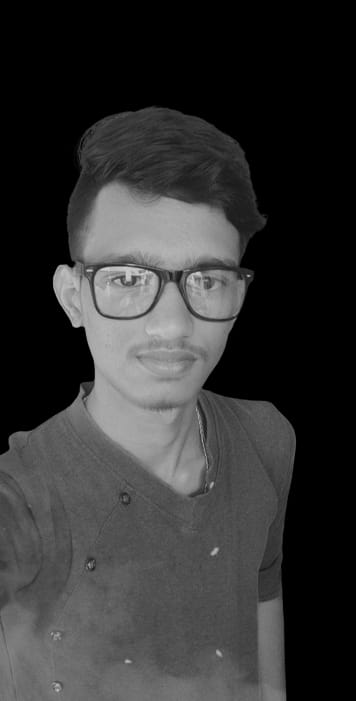
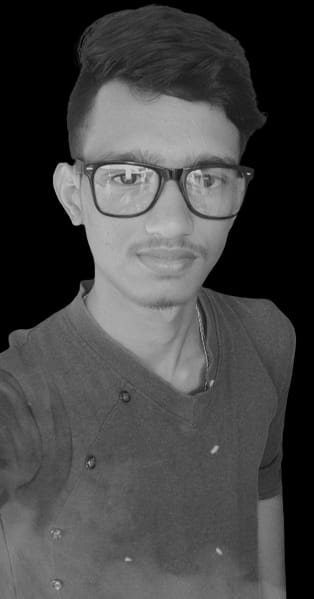
new changes

diff --git a/index.html b/index.html
@@ -2,8 +2,9 @@
     <head>
         <title>RAM</title>
         <link rel="stylesheet" href="all.min.css">
-        <link rel="icon" type="" href="">
+        <link rel="icon" type="image/icon" href="b&w.jpg">
         <script src="https://kit.fontawesome.com/9cfb58acdb.js" crossorigin="anonymous"></script>
+        <link rel="stylesheet" href="https://cdnjs.cloudflare.com/ajax/libs/font-awesome/4.7.0/css/font-awesome.min.css">
         <meta name="viewport" content="width=device-width,initial-scale=1.0">
         <link rel="stylesheet" href="footer.css">
         <link rel="stylesheet" href="project.css">
@@ -11,13 +12,12 @@
         <link rel="stylesheet" href="skill.css">
         <meta name="viewport" content="width=device-width,initial-scale=1.0">
         <style>
-
-          
           .wrapper{
             display: flex;
             padding-top: 30%;
           }
           .wrapper .static-txt{
+            
             color: #f1f1f1;
             font-size: 60px;
             font-weight: 400;
@@ -77,18 +77,16 @@
           }
           .background h1{
             color: #f1f1f1;
-            padding-top: 5%;
             font-size: 70px;
           }
-          .background .img{
+          .background img{
             opacity: 0.2;
           }
-          .background .img:hover{
+          .background img:hover{
             opacity: 0.5;
             transform: scale(1.1);
           }
         </style>
-
     </head>
     <body>
       <div id="loder">
@@ -103,9 +101,8 @@
       
 
     <div class="background" id="particles-js">
-    
       <div id="name"><h1>!RAM</h1></div>
-      <div style="float: right;" class="img"><img src="b&w.jpg"></div>
+      <div style="float: right;"><img src="b&w.jpg"> </div>
       <div class="wrapper">
         
         <div class="static-txt">I'm a</div>
@@ -128,8 +125,8 @@
             <div class="card">
               <div class="face face1">
                 <div class="con">
-                  <img src="">
-                  <h2>TODO APP</h2>
+                  
+                  <h2><i class="far fa-edit"></i>TODO APP</h2>
                 </div>
 
               </div>
@@ -146,8 +143,8 @@
             <div class="card">
               <div class="face face1">
                 <div class="con">
-                  <img src="">
-                  <h2>virtual mouse</h2>
+                  
+                  <h2><i class="far fa-hand-pointer"></i>virtual mouse</h2>
                 </div>
 
               </div>
@@ -157,7 +154,7 @@
                     to sensor noise, changing light levels, and the complexity of tracking a fingertip across a variety of subjects. 
                     Using fingertip tracking as a virtual mouse is a popular method of 
                     interacting with computers without a mouse device.</p>
-                     <a href="#" target="_blank">view project</a>
+                     <a href="https://github.com/Muthuram05/virtual_mouse" target="_blank">view project</a>
                 </div>
 
               </div>
@@ -165,8 +162,8 @@
             <div class="card">
               <div class="face face1">
                 <div class="con">
-                  <img src="">
-                  <h2>Face detect</h2>
+                  
+                  <h2><i class="far fa-surprise"></i>Face detect</h2>
                 </div>
 
               </div>
@@ -185,8 +182,7 @@
             <div class="card">
               <div class="face face1">
                 <div class="con">
-                  <img src="">
-                  <h2>Hand detect</h2>
+                  <h2><i class="fa fa-hand-paper-o"></i>Hand detect</h2>
                 </div>
 
               </div>
@@ -197,7 +193,7 @@
                     with virtual data, by handling through the fingers the volumetric of a 3D object that we want to represent.
                      This system was born based on the human-computer interaction problem. 
                 </p>
-                     <a href="#" target="_blank">view project</a>
+                     <a href="https://github.com/Muthuram05/hand_detect" target="_blank">view project</a>
                 </div>
 
               </div>
@@ -242,20 +238,6 @@
 
     </diV>
     </div>
-    <iframe width="560" height="315" src="https://www.youtube.com/embed/nKq2pEYEArs" title="YouTube video player" frameborder="0" allow="accelerometer; autoplay; clipboard-write; encrypted-media; gyroscope; picture-in-picture" allowfullscreen></iframe>
-    <iframe width="560" height="315" src="https://www.youtube.com/embed/nKq2pEYEArs" title="YouTube video player" frameborder="0" allow="accelerometer; autoplay; clipboard-write; encrypted-media; gyroscope; picture-in-picture" allowfullscreen></iframe>
-    <iframe width="560" height="315" src="https://www.youtube.com/embed/nKq2pEYEArs" title="YouTube video player" frameborder="0" allow="accelerometer; autoplay; clipboard-write; encrypted-media; gyroscope; picture-in-picture" allowfullscreen></iframe>
-    <iframe width="560" height="315" src="https://www.youtube.com/embed/nKq2pEYEArs" title="YouTube video player" frameborder="0" allow="accelerometer; autoplay; clipboard-write; encrypted-media; gyroscope; picture-in-picture" allowfullscreen></iframe>
-    <iframe width="560" height="315" src="https://www.youtube.com/embed/nKq2pEYEArs" title="YouTube video player" frameborder="0" allow="accelerometer; autoplay; clipboard-write; encrypted-media; gyroscope; picture-in-picture" allowfullscreen></iframe>
-    <iframe width="560" height="315" src="https://www.youtube.com/embed/nKq2pEYEArs" title="YouTube video player" frameborder="0" allow="accelerometer; autoplay; clipboard-write; encrypted-media; gyroscope; picture-in-picture" allowfullscreen></iframe>
-    <iframe width="560" height="315" src="https://www.youtube.com/embed/nKq2pEYEArs" title="YouTube video player" frameborder="0" allow="accelerometer; autoplay; clipboard-write; encrypted-media; gyroscope; picture-in-picture" allowfullscreen></iframe>
-    <iframe width="560" height="315" src="https://www.youtube.com/embed/nKq2pEYEArs" title="YouTube video player" frameborder="0" allow="accelerometer; autoplay; clipboard-write; encrypted-media; gyroscope; picture-in-picture" allowfullscreen></iframe>
-    <iframe width="560" height="315" src="https://www.youtube.com/embed/nKq2pEYEArs" title="YouTube video player" frameborder="0" allow="accelerometer; autoplay; clipboard-write; encrypted-media; gyroscope; picture-in-picture" allowfullscreen></iframe>
-    <iframe width="560" height="315" src="https://www.youtube.com/embed/nKq2pEYEArs" title="YouTube video player" frameborder="0" allow="accelerometer; autoplay; clipboard-write; encrypted-media; gyroscope; picture-in-picture" allowfullscreen></iframe>
-    <iframe width="560" height="315" src="https://www.youtube.com/embed/nKq2pEYEArs" title="YouTube video player" frameborder="0" allow="accelerometer; autoplay; clipboard-write; encrypted-media; gyroscope; picture-in-picture" allowfullscreen></iframe>
-    <iframe width="560" height="315" src="https://www.youtube.com/embed/nKq2pEYEArs" title="YouTube video player" frameborder="0" allow="accelerometer; autoplay; clipboard-write; encrypted-media; gyroscope; picture-in-picture" allowfullscreen></iframe>
-    <iframe width="560" height="315" src="https://www.youtube.com/embed/nKq2pEYEArs" title="YouTube video player" frameborder="0" allow="accelerometer; autoplay; clipboard-write; encrypted-media; gyroscope; picture-in-picture" allowfullscreen></iframe>
-    <iframe width="560" height="315" src="https://www.youtube.com/embed/nKq2pEYEArs" title="YouTube video player" frameborder="0" allow="accelerometer; autoplay; clipboard-write; encrypted-media; gyroscope; picture-in-picture" allowfullscreen></iframe>
     
         <div class="one">
             <footer>

diff --git a/skill.css b/skill.css
@@ -3,7 +3,22 @@
     justify-content: center;
     align-items: center;
     min-height: 100vh;
-    background: #333;
+    background:linear-gradient(
+        135deg,rgb(0,0,0),
+        rgb(128,128,128),
+        rgb(192,192,192)
+    );
+    
+animation: anim 4s infinite alternate;
+}
+@keyframes anim{
+    from{
+        background-position: 0%;
+    }
+    to{
+        background-position: 100%;
+        
+    }
 }
 .skill_head{
     position: relative;
